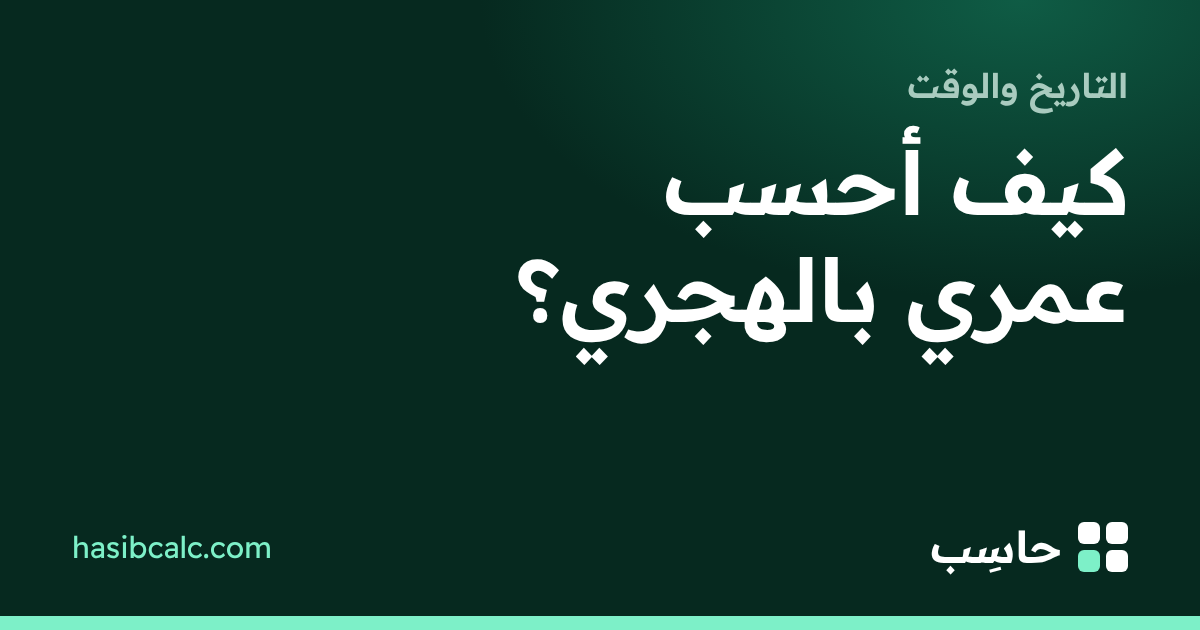
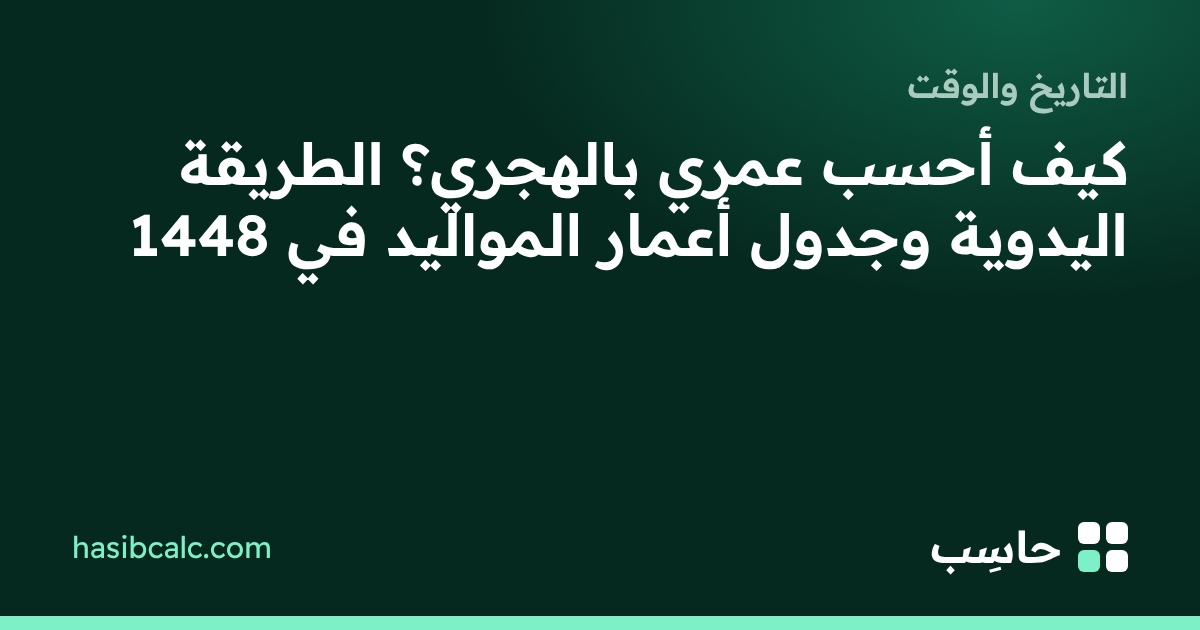
Strengthen age-in-hijri guide (daily monitor suggestion): short answer, manual 4-step method with worked example, tables for Hijri birth years 1400–1430 and Gregorian 1980–2010 with age in 1448 AH, FAQ, links to /hijri-age/
Claude-Session: https://claude.ai/code/session_01KKyL8svfUUTjcLXAGNStGe

Changed region(s): [[0.0925, 0.181, 0.9558, 0.573]]

diff --git a/src/data/guides.ts b/src/data/guides.ts
@@ -13,6 +13,6 @@ export const GUIDES: Guide[] = [
   { slug: 'pregnancy-weeks-months', title: 'أسابيع الحمل بالأشهر: جدول من الأسبوع 1 إلى 40، والشهر كم أسبوع؟', description: 'كم أسبوعاً في شهر الحمل، وفي أي شهر أنتِ حسب أسبوعك: جدول كامل يحوّل أسابيع الحمل إلى أشهر وأثلاث، مع محوّل سريع وأسئلة شائعة.', calc: 'pregnancy', date: '2026-10-21', updated: '2026-10-26', minutes: 5, kicker: 'الصحة والعمر' },
   { slug: 'ideal-weight-by-height', title: 'الوزن المثالي حسب الطول: جدول للبالغين', description: 'جدول الوزن الطبيعي لكل طول من 150 إلى 190 سم بحسب مؤشر كتلة الجسم، وكيف تحسبه لطولك، ومتى لا يكفي هذا المؤشر وحده.', calc: 'bmi', date: '2026-10-21', minutes: 4, kicker: 'الصحة والعمر' },
   { slug: 'how-to-calculate-percentage', title: 'طريقة حساب النسبة المئوية: ثلاث حالات بأمثلة', description: 'كيف تحسب نسبة من رقم، وكم يمثل رقم من آخر، ونسبة الزيادة أو النقص، مع أمثلة من الراتب والخصومات والدرجات.', calc: 'percentage', date: '2026-10-21', minutes: 4, kicker: 'التسوق والنسب' },
-  { slug: 'age-in-hijri', title: 'كيف أحسب عمري بالهجري؟', description: 'لماذا يكون عمرك بالهجري أكبر من عمرك بالميلادي، وكيف تحسبه بدقة من تاريخ ميلادك، مع قاعدة سريعة للتقدير.', calc: 'hijri-age', date: '2026-10-21', updated: '2026-10-25', minutes: 3, kicker: 'التاريخ والوقت' },
+  { slug: 'age-in-hijri', title: 'كيف أحسب عمري بالهجري؟ الطريقة اليدوية وجدول أعمار المواليد في 1448', description: 'احسب عمرك بالهجري بأربع خطوات بمثال محسوب، مع جدول «كم عمر مواليد 1400–1430 هـ» وجدول مواليد 1980–2010 بالهجري، ولماذا العمر الهجري أكبر.', calc: 'hijri-age', date: '2026-10-21', updated: '2026-10-26', minutes: 5, kicker: 'التاريخ والوقت' },
 ];
 export const guideBySlug = (s: string) => GUIDES.find((g) => g.slug === s)!;
